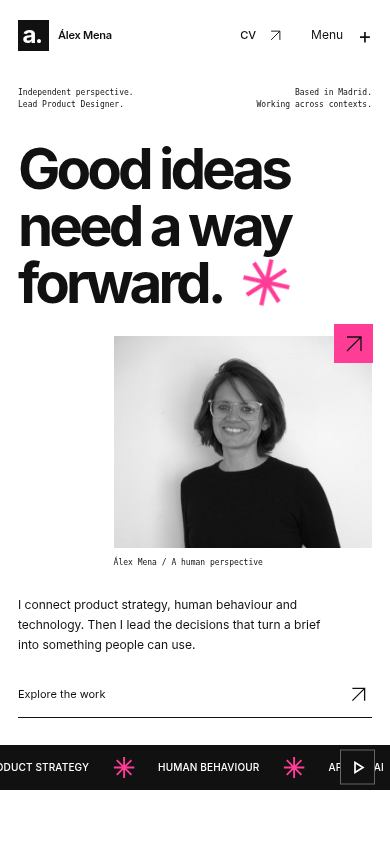
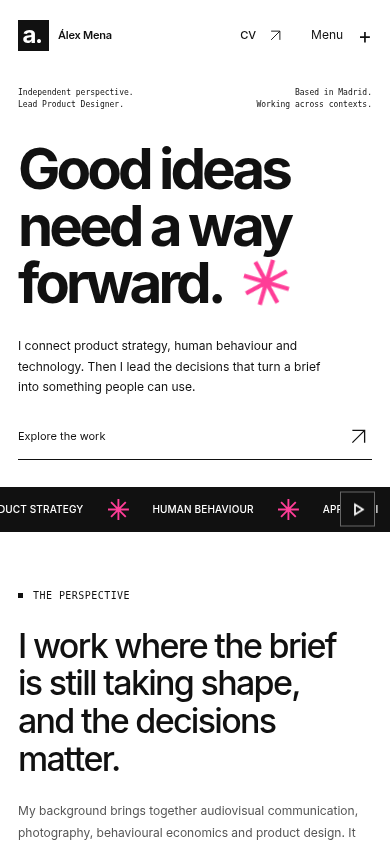
Keep portrait on profile and refine typographic homepage

diff --git a/review/v2/README.md b/review/v2/README.md
@@ -1,8 +1,8 @@
 # Portfolio — nueva dirección visual / V2
 
-Una base gráfica en blanco y negro, tipografía sans serif con más presencia, retrato personal, cubiertas conceptuales y una composición de proyectos de distinta escala. El contenido y los hechos de los cinco casos se han conservado.
+Una base gráfica en blanco y negro, tipografía sans serif con más presencia, portada tipográfica, cubiertas conceptuales y una composición de proyectos de distinta escala. El contenido y los hechos de los cinco casos se han conservado.
 
-Actualización: la portada y el perfil utilizan la nueva fotografía facilitada por Alexandra. Se ha convertido el RAW a una versión web y ajustado el encuadre para escritorio y móvil. El blanco y negro pertenece al tratamiento visual de la web.
+Actualización: la fotografía aparece exclusivamente en Profile. La portada utiliza el titular a todo el ancho, con dos líneas en escritorio y tres en móvil. El retrato facilitado por Alexandra se ha convertido del RAW a una versión web; su encuadre y el blanco y negro se aplican con CSS.
 
 ## Portada
 
